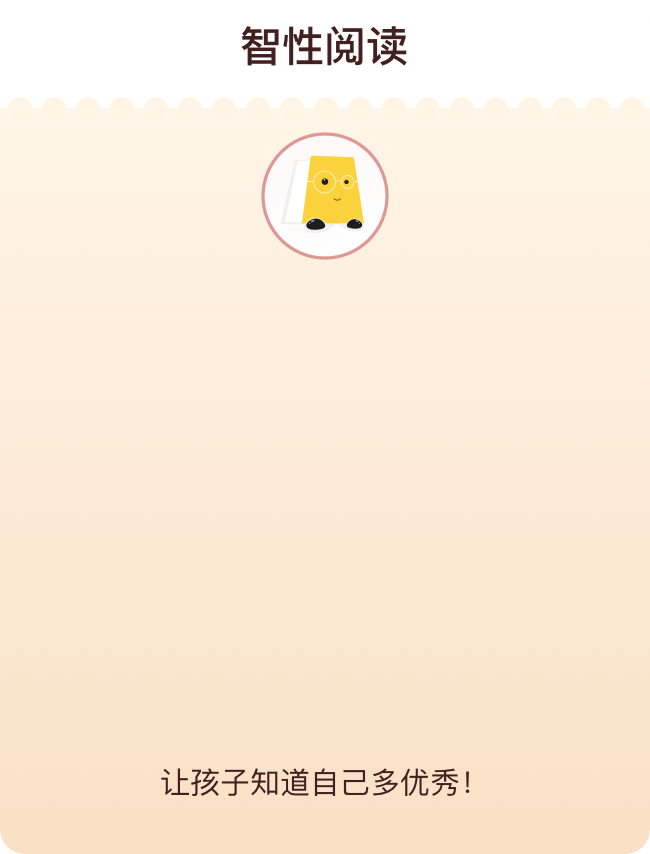
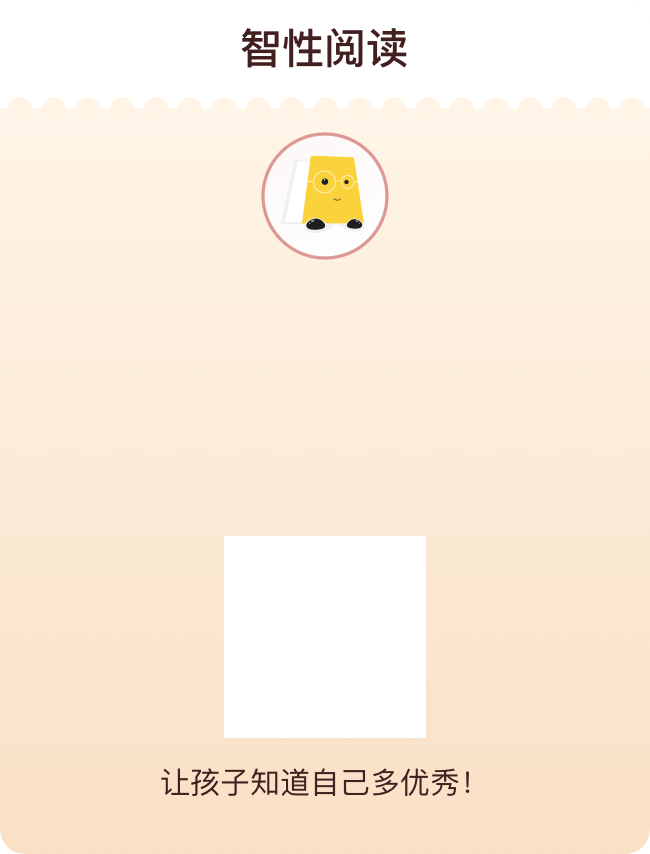
阅读书籍答题分享图片

Changed region(s): [[0.3385, 0.6089, 0.6769, 0.8829], [0.3692, 0.0304, 0.6462, 0.0913]]

diff --git a/reading-service/src/main/java/com/synapse/reading/util/ImgUtil.java b/reading-service/src/main/java/com/synapse/reading/util/ImgUtil.java
@@ -428,7 +428,7 @@ public class ImgUtil {
         ImageIO.write(erbdBuffer, "png", tempPng.toFile());
 
 
-        BufferedImage new0 = ImgUtil.synthesisPicAtXy(modelUrl, erMinBuffer, 215, 544);// 二维码合并
+        BufferedImage new0 = ImgUtil.synthesisPicAtXy(modelUrl, erMinBuffer, 232, 544);// 二维码合并
 
 //        BufferedImage new1 = ImgUtil.synthesisPicAtXy(new0, goodsMinBuffer, 244, 160);// 二维码图合并
 
